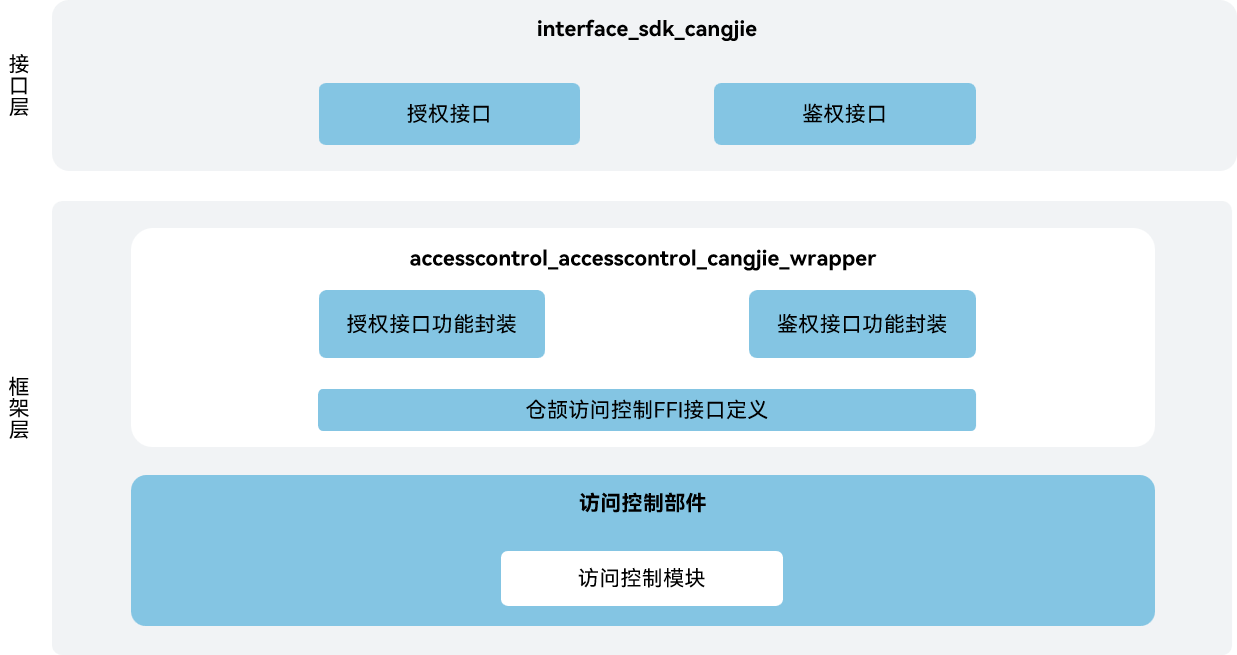
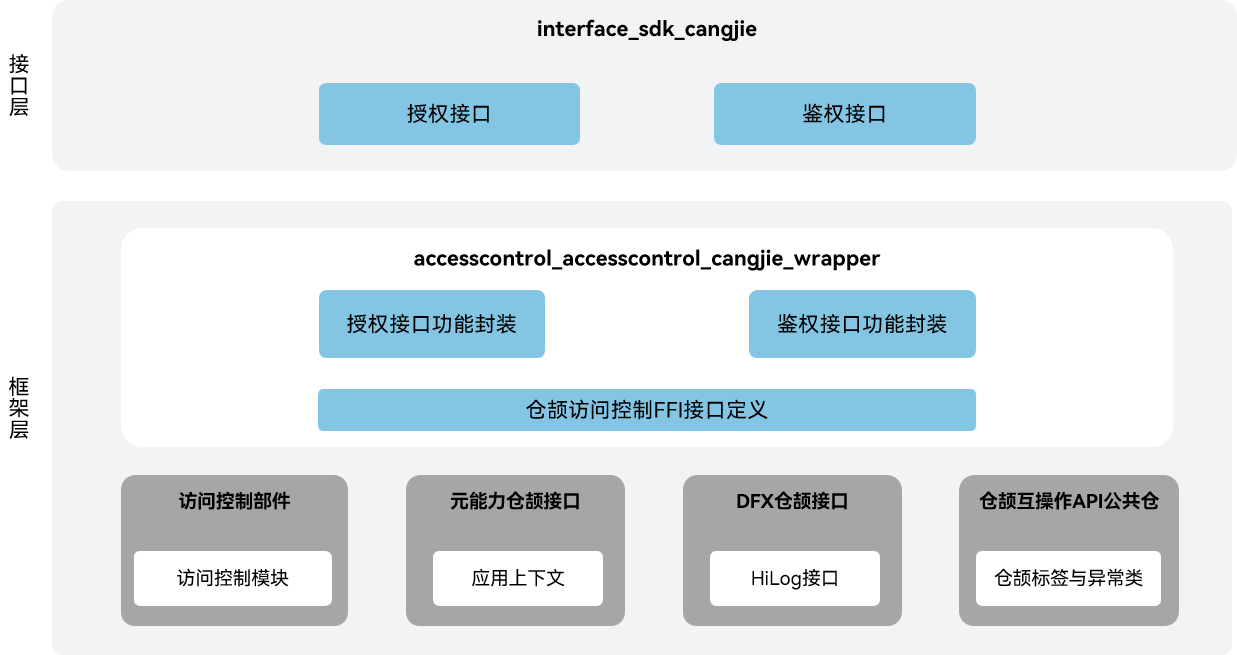
fix_readme

Changed region(s): [[0.0922, 0.7023, 0.9523, 0.9771], [0.3379, 0.3664, 0.7065, 0.4275]]

diff --git a/README_zh.md b/README_zh.md
@@ -14,9 +14,11 @@
 
 - 请求用户授权：开发者可调用requestPermissionsFromUser接口请求用户授权，并返回此次权限申请的结果。访问控制提供应用程序的权限校验和管理能力。
 - 检验应用权限是否被授予： 开发者可通过checkAccessToken查看应用是否被授权。
-- 仓颉访问控制FFI接口定义：负责定义C互操作仓颉接口，用于实现仓颉访问控制能力。
-- 访问控制模块：负责提供访问控制基础功能，封装C接口提供给仓颉进行互操作。
-
+- 仓颉访问控制FFI接口定义：负责定义C语言互操作仓颉接口，用于实现仓颉访问控制能力。
+- 访问控制模块：负责提供访问控制基础功能，封装C语言接口提供给仓颉进行互操作。
+- 元能力仓颉接口: 提供应用上下文，拉起弹窗请求用户授予权限。
+- DFX仓颉接口：提供日志系统，使应用/服务可以按照指定级别、标识和格式字符串输出日志内容。
+- 仓颉互操作API公共仓：提供仓颉标签与异常类的定义。
 
 ## 目录
 
@@ -55,8 +57,10 @@ base/accesscontrol/accesscontrol_cangjie_wrapper
 
 ## 相关仓
 
-[security_access_token](https://gitee.com/openharmony/security_access_token)
+[security_access_token](https://gitcode.com/openharmony/security_access_token)
 
 [arkcompiler_cangjie_ark_interop](https://gitcode.com/openharmony-sig/arkcompiler_cangjie_ark_interop)
 
 [ability_ability_cangjie_wrapper](https://gitcode.com/openharmony-sig/ability_ability_cangjie_wrapper)
+
+[hiviewdfx_hiviewdfx_cangjie_wrapper](https://gitcode.com/openharmony-sig/hiviewdfx_hiviewdfx_cangjie_wrapper)

diff --git a/README.md b/README.md
@@ -16,6 +16,9 @@ As shown in the architecture diagram:
 - checkAccessToken: accesscontrol_cangjie_wrapper provides permission verification and management capabilities for applications. Developers can use checkAccessToken to check whether an application has been authorized.
 - Cangjie Accesscontrol FFI interface: Based on cross-language interoperability via C interfaces to implement accesscontrol Cangjie API.
 - access_token: It is responsible for providing basic functions of application access control, and encapsulates C interfaces to provide interoperability for Cangjie.
+- ability_cangjie_wrapper: Provides UIAbilityContext to request user authorization in a dialog box.
+- hiviewdfx_cangjie_wrapper: Provides a logging system that allows applications/services to output log content according to specified levels, identifiers, and format strings.
+- Cangjie Interop API Public Repository: Provides definitions for APILevel and BusinessException classes.
 
 ## Directory Structure
 
@@ -53,8 +56,10 @@ Developers are welcome to contribute code, documentation, etc. For specific cont
 
 ## Repositories Involved
 
-[security_access_token](https://gitee.com/openharmony/security_access_token)
+[security_access_token](https://gitcode.com/openharmony/security_access_token)
 
 [arkcompiler_cangjie_ark_interop](https://gitcode.com/openharmony-sig/arkcompiler_cangjie_ark_interop)
 
 [ability_ability_cangjie_wrapper](https://gitcode.com/openharmony-sig/ability_ability_cangjie_wrapper)
+
+[hiviewdfx_hiviewdfx_cangjie_wrapper](https://gitcode.com/openharmony-sig/hiviewdfx_hiviewdfx_cangjie_wrapper)
